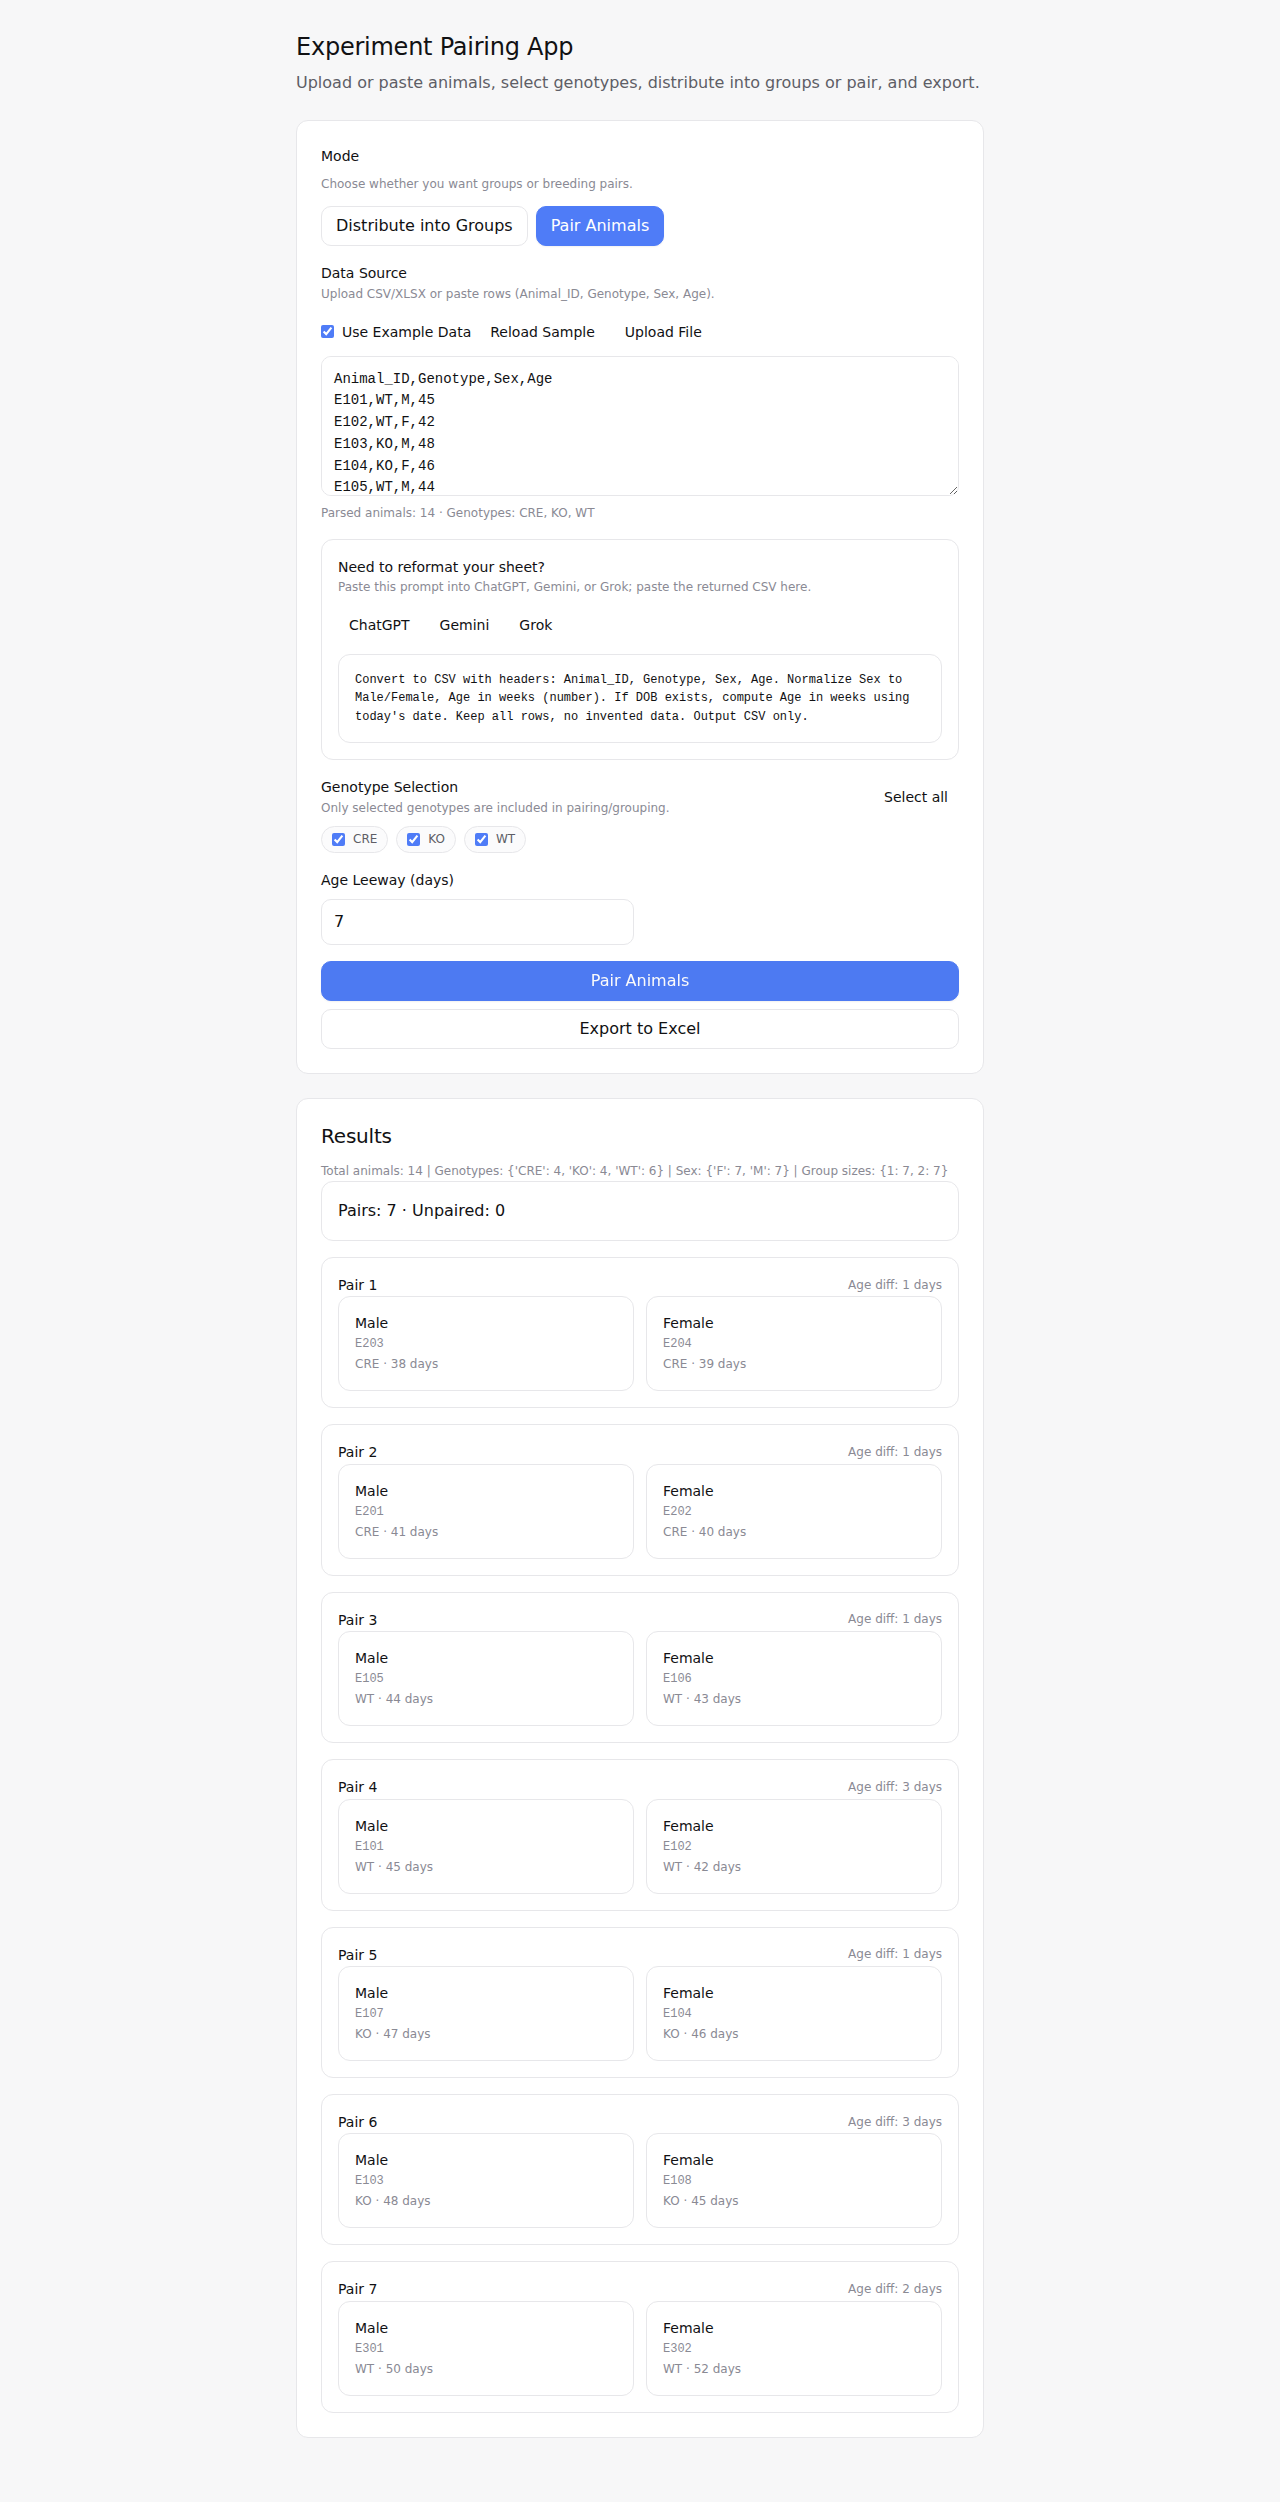
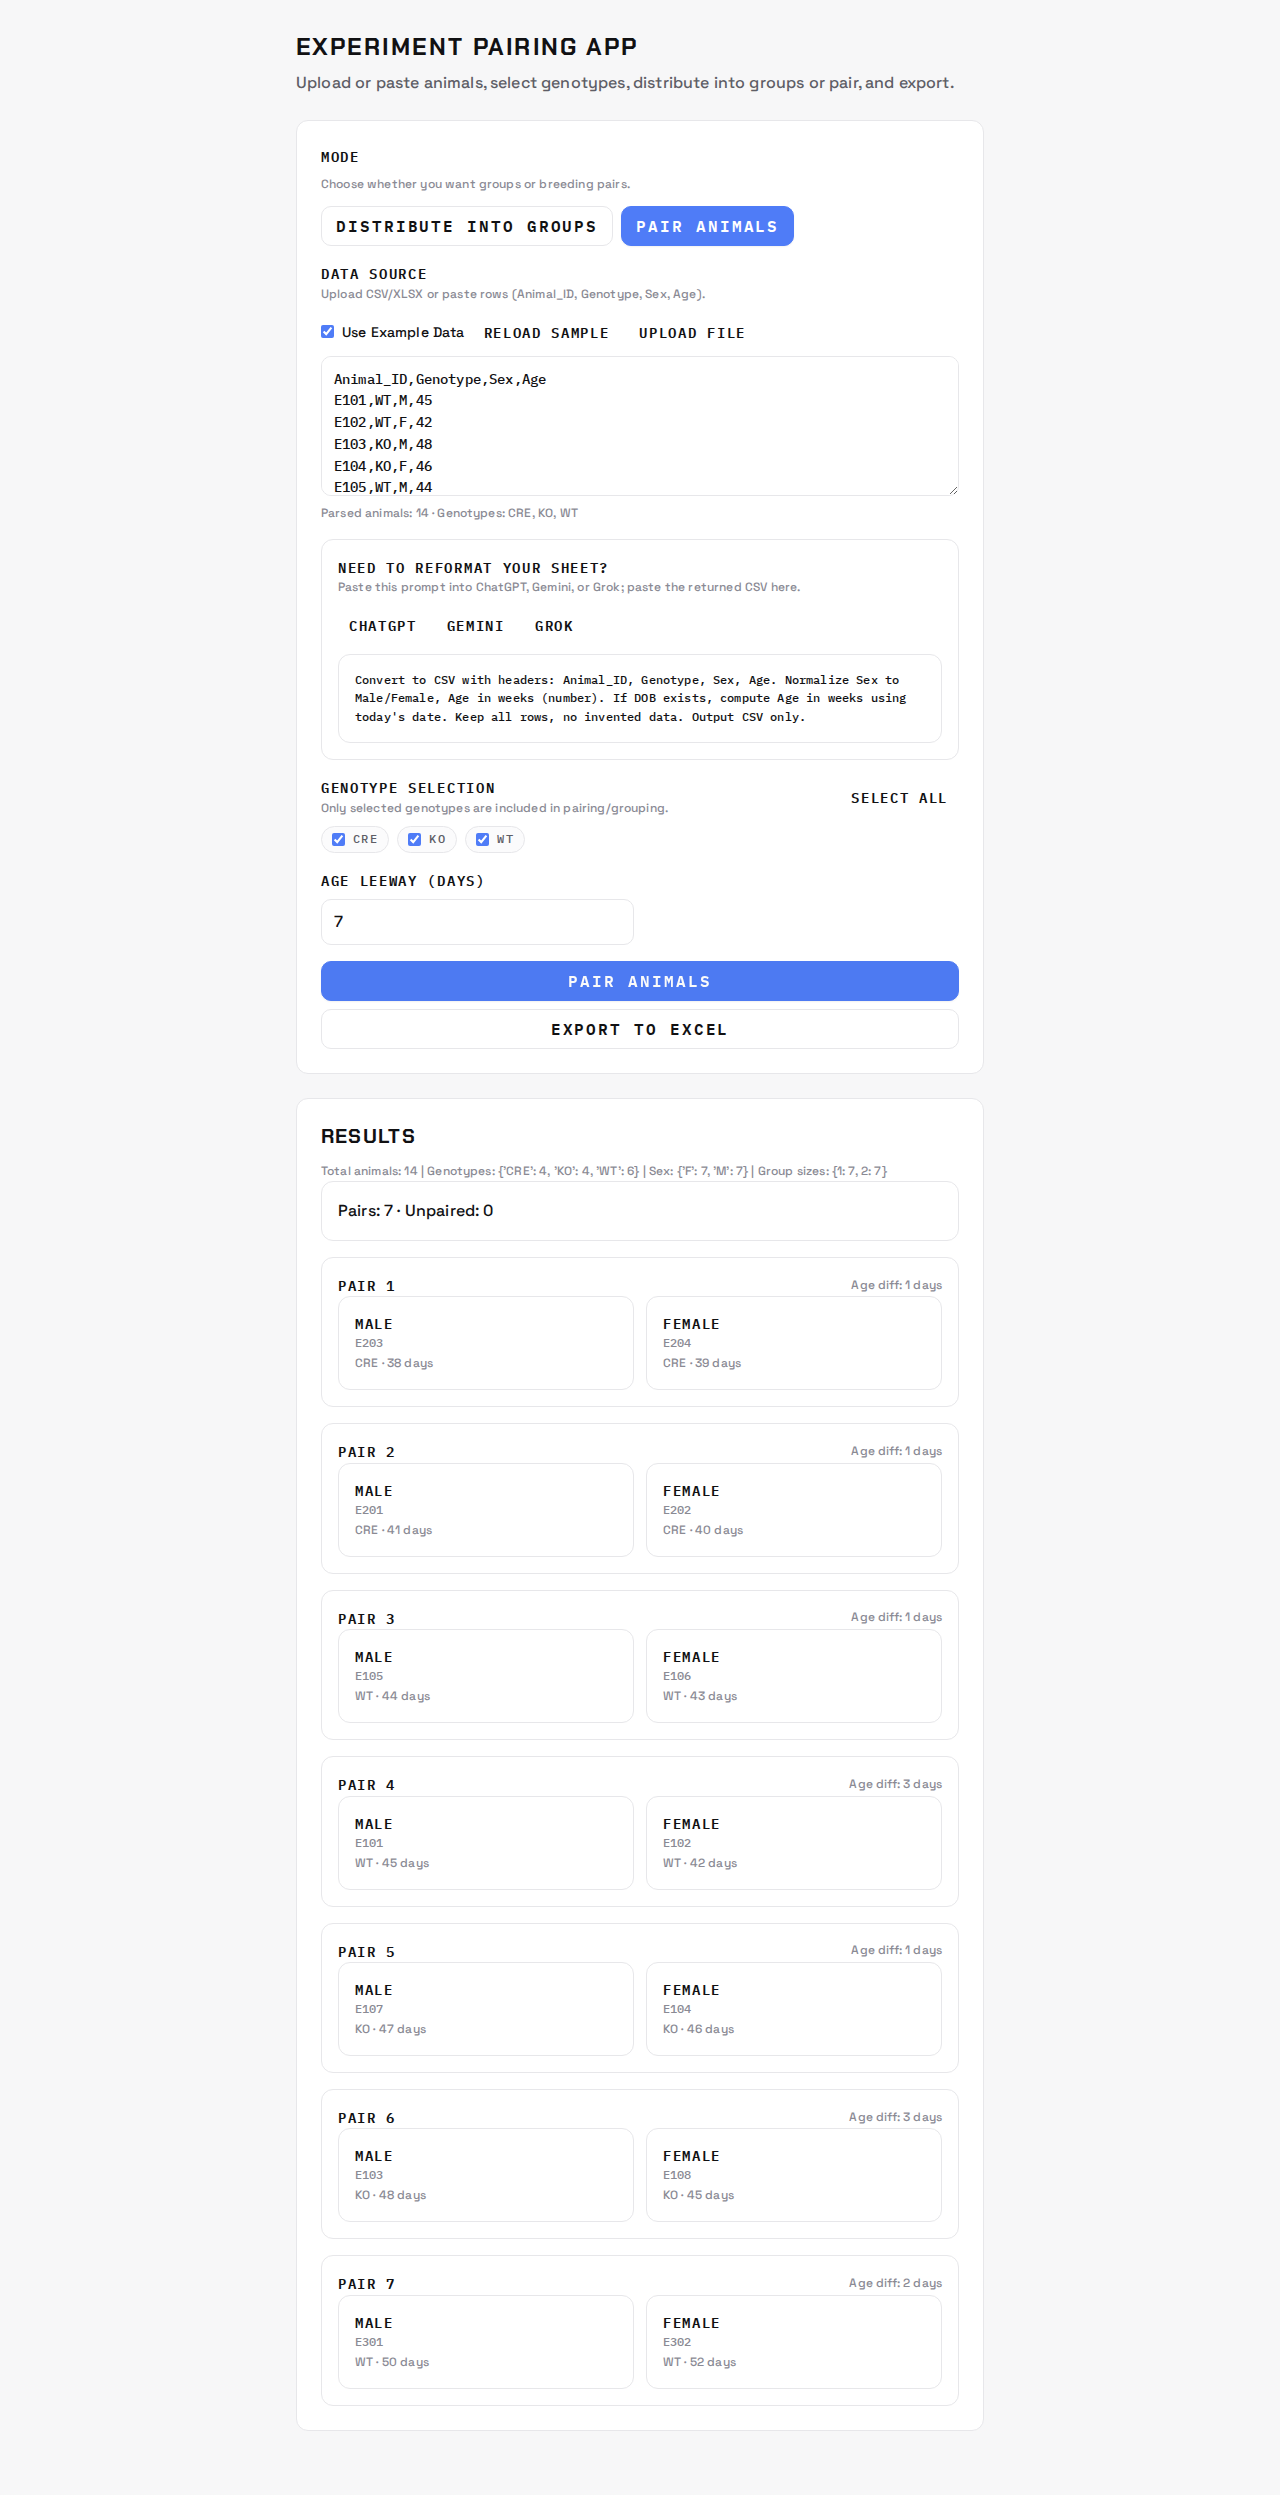
feat: neo-brutal typography refresh

diff --git a/modern-app/src/index.css b/modern-app/src/index.css
@@ -1,3 +1,5 @@
+@import url("https://fonts.googleapis.com/css2?family=Chakra+Petch:wght@500;600;700&family=IBM+Plex+Mono:wght@400;500;600&family=Space+Grotesk:wght@400;500;600;700&display=swap");
+
 @tailwind base;
 @tailwind components;
 @tailwind utilities;
@@ -29,8 +31,13 @@
 
     --shadow-1: 0 1px 2px rgba(0, 0, 0, 0.06);
 
-    --font-sans: Inter, system-ui, -apple-system, Segoe UI, Roboto, Arial, sans-serif;
-    --font-mono: ui-monospace, SFMono-Regular, Menlo, Monaco, Consolas, "Liberation Mono", monospace;
+    --font-display: "Chakra Petch", "Space Grotesk", system-ui, sans-serif;
+    --font-body: "Space Grotesk", system-ui, sans-serif;
+    --font-sans: var(--font-body);
+    --font-mono: "IBM Plex Mono", ui-monospace, SFMono-Regular, Menlo, Monaco, Consolas, "Liberation Mono", monospace;
+
+    --tracking-display: 0.06em;
+    --tracking-label: 0.12em;
 
     --content-max: 720px;
     --t-fast: 140ms ease-out;
@@ -121,6 +128,19 @@
     color: var(--text);
     font-size: 16px;
     line-height: 1.6;
+    font-weight: 500;
+    letter-spacing: 0.01em;
+  }
+
+  h1,
+  h2,
+  h3,
+  h4,
+  h5 {
+    font-family: var(--font-display);
+    font-weight: 700;
+    text-transform: uppercase;
+    letter-spacing: var(--tracking-display);
   }
 
   input[type="checkbox"],
@@ -188,16 +208,20 @@
     margin: 0;
     font-size: 24px;
     line-height: 1.25;
-    letter-spacing: -0.01em;
-    font-weight: 500;
+    letter-spacing: var(--tracking-display);
+    font-weight: 700;
+    font-family: var(--font-display);
+    text-transform: uppercase;
   }
 
   .ui-h2 {
     margin: 0;
     font-size: 20px;
     line-height: 1.35;
-    letter-spacing: -0.01em;
-    font-weight: 500;
+    letter-spacing: var(--tracking-display);
+    font-weight: 700;
+    font-family: var(--font-display);
+    text-transform: uppercase;
   }
 
   .ui-subtitle {
@@ -234,8 +258,11 @@
 
   .ui-label {
     font-size: 14px;
-    font-weight: 500;
+    font-weight: 600;
     color: var(--text);
+    font-family: var(--font-mono);
+    letter-spacing: var(--tracking-label);
+    text-transform: uppercase;
   }
 
   .ui-hint {
@@ -302,7 +329,10 @@
     background: var(--surface);
     color: var(--text);
     text-decoration: none;
-    font-weight: 500;
+    font-weight: 600;
+    font-family: var(--font-mono);
+    letter-spacing: var(--tracking-label);
+    text-transform: uppercase;
     cursor: pointer;
     user-select: none;
     transition: background-color var(--t-fast), border-color var(--t-fast), box-shadow var(--t-fast), transform var(--t-fast), filter var(--t-fast);
@@ -369,6 +399,9 @@
     color: var(--text-2);
     font-size: 12px;
     line-height: 1;
+    font-family: var(--font-mono);
+    letter-spacing: var(--tracking-label);
+    text-transform: uppercase;
   }
 
   .ui-alert {

diff --git a/README.md b/README.md
@@ -46,11 +46,11 @@ Modern React + FastAPI app (see `modern-app/`). Legacy desktop (Python GUI) is d
 
 ## Screenshot
 
-Modern web app using the built-in example dataset and default grouping settings (captured Dec 1, 2025 via Playwright E2E):
+Modern web app using the built-in example dataset and default grouping settings (captured Dec 25, 2025 via Playwright E2E):
 
 ![Animal Pairing and Grouping Tool™ app screenshot](modern-app/screenshots/example_run.png)
 
-Recent verification (Dec 1, 2025):
+Recent verification (Dec 25, 2025):
 - `npm run test:e2e` (from `modern-app/`) starts the FastAPI backend on :8001 and Vite frontend on :5173, drives the example flow, and regenerates the screenshot above.
 
 ## Modern Web App (Preferred)
